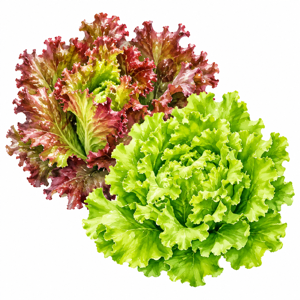
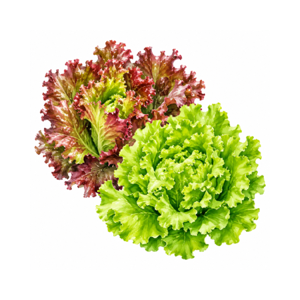
Unify lettuce varieties and update lettuce images

diff --git a/src/data/cultivationLinks.ts b/src/data/cultivationLinks.ts
@@ -134,10 +134,6 @@ export const cultivationLinks: Record<string, CultivationLink[]> = {
     { title: 'リーフレタス栽培方法｜JAあいち尾東', url: 'https://kateisaien-jaab.jp/cultivation/leaf_lettuce/', source: 'JAあいち尾東', type: 'web' },
     { title: 'タキイのレタス栽培マニュアル（リーフレタス含む）', url: 'https://www.takii.co.jp/tsk/manual/retasu.html', source: 'タキイ種苗', type: 'web' },
   ],
-  saladana: [
-    { title: 'タキイのレタス栽培マニュアル（サラダ菜含む）', url: 'https://www.takii.co.jp/tsk/manual/retasu.html', source: 'タキイ種苗', type: 'web' },
-    { title: 'サラダ菜｜JA全農ふくれん', url: 'https://zennoh-fukuren.jp/consumer/vegetables/saradana', source: 'JA全農ふくれん', type: 'web' },
-  ],
   spinach: [
     { title: 'ホウレンソウ栽培マニュアル', url: 'https://www.takii.co.jp/tsk/manual/hourensou.html', source: 'タキイ種苗', type: 'web' },
     { title: 'ホウレンソウ栽培マニュアル（PDF）', url: 'https://www.takii.co.jp/tsk/manual/pdf/hourensou.pdf', source: 'タキイ種苗', type: 'pdf' },

diff --git a/src/data/cultivationData.ts b/src/data/cultivationData.ts
@@ -170,13 +170,6 @@ export const cultivationData: Record<string, CultivationInfo> = {
     baseFertilizer: '完熟堆肥2,000g/m²・苦土石灰100g/m²・ようりん40g/m²・高度化成（14-14-14）60〜80g/m² 【チッソ10〜12・リンサン10〜12・カリ10〜12 g/m²】',
     topDressing: '定植2週後にチッソ成分1g/m²を1〜2回',
   },
-  saladana: {
-    ph: '6.0〜7.0',
-    spacing: '20〜25cm',
-    rowSpacing: '30〜40cm',
-    baseFertilizer: '完熟堆肥2,000g/m²・苦土石灰100g/m²・ようりん40g/m²・高度化成（14-14-14）60〜80g/m² 【チッソ10〜12・リンサン10〜12・カリ10〜12 g/m²】',
-    topDressing: '定植2週後にチッソ成分1g/m²を1〜2回',
-  },
   spinach: {
     ph: '6.5〜7.0（酸性を極端に嫌う）',
     spacing: '筋まき（播種間隔3〜5cm）',

diff --git a/src/components/VegetableAvatar.tsx b/src/components/VegetableAvatar.tsx
@@ -4,7 +4,7 @@ const EMOJI_MAP: Record<string, string> = {
   'chili':'🌶','pumpkin':'🎃','watermelon':'🍉','melon':'🍈','okra':'🌿',
   'zucchini':'🥒','bittermelon':'🥒','shiroouri':'🥒','togan':'🥬','hayatouri':'🥒',
   'tsurumurasaki':'🌿','morohiya':'🌿','strawberry':'🍓','hakusai':'🥬','cabbage':'🥬',
-  'lettuce':'🥬','green-lettuce':'🥬','saladana':'🥬','spinach':'🥬','komatsuna':'🥬',
+  'lettuce':'🥬','green-lettuce':'🥬','spinach':'🥬','komatsuna':'🥬',
   'mizuna':'🥬','chingensai':'🥬','broccoli':'🥦','cauliflower':'🥦','shungiku':'🌼',
   'nozawana':'🥬','celery':'🌿','parsley':'🌿','asparagus-green':'🌱','white-asparagus':'🌱',
   'udo':'🌿','eisai':'🌿','kale':'🥬','takana':'🥬','coriander':'🌿','leaf-shiso':'🍃',

diff --git a/src/pages/HomePage.tsx b/src/pages/HomePage.tsx
@@ -29,7 +29,7 @@ const REFERENCE_SITES = [
 export function HomePage({ region, onRegionChange }: Props) {
   useSeo({
     title: '野菜 種まきカレンダー｜月別・地域別の種まき・定植・収穫時期一覧',
-    description: '74種類の野菜の種まき・定植・収穫時期を、暖地（九州・四国）・中間地（関東・東海）・冷涼地（東北・北海道）の地域別で確認できる無料カレンダーサイトです。',
+    description: '73種類の野菜の種まき・定植・収穫時期を、暖地（九州・四国）・中間地（関東・東海）・冷涼地（東北・北海道）の地域別で確認できる無料カレンダーサイトです。',
   });
 
   const today = new Date();

diff --git a/src/data/vegetables.ts b/src/data/vegetables.ts
@@ -334,21 +334,6 @@ export const vegetables: Vegetable[] = [
     },
   },
   {
-    id: 'saladana',
-    name: 'サラダナ',
-    nameRoma: 'Salad Greens',
-    category: '葉菜',
-    classification: 'その他',
-    difficulty: 1,
-    daysToHarvest: '45〜60日',
-    image: 'sakugata/作型レタス_非結球レタス.png',
-    schedule: {
-      warm:   { sowing: [{start:1,end:4},{start:8,end:12}], harvest: [{start:4,end:6},{start:11,end:12}] },
-      middle: { sowing: [{start:1,end:4},{start:8,end:12}], harvest: [{start:5,end:6},{start:10,end:11}] },
-      cold:   { sowing: [{start:3,end:9}], harvest: [{start:6,end:8}] },
-    },
-  },
-  {
     id: 'spinach',
     name: 'ホウレンソウ',
     nameRoma: 'Spinach',
